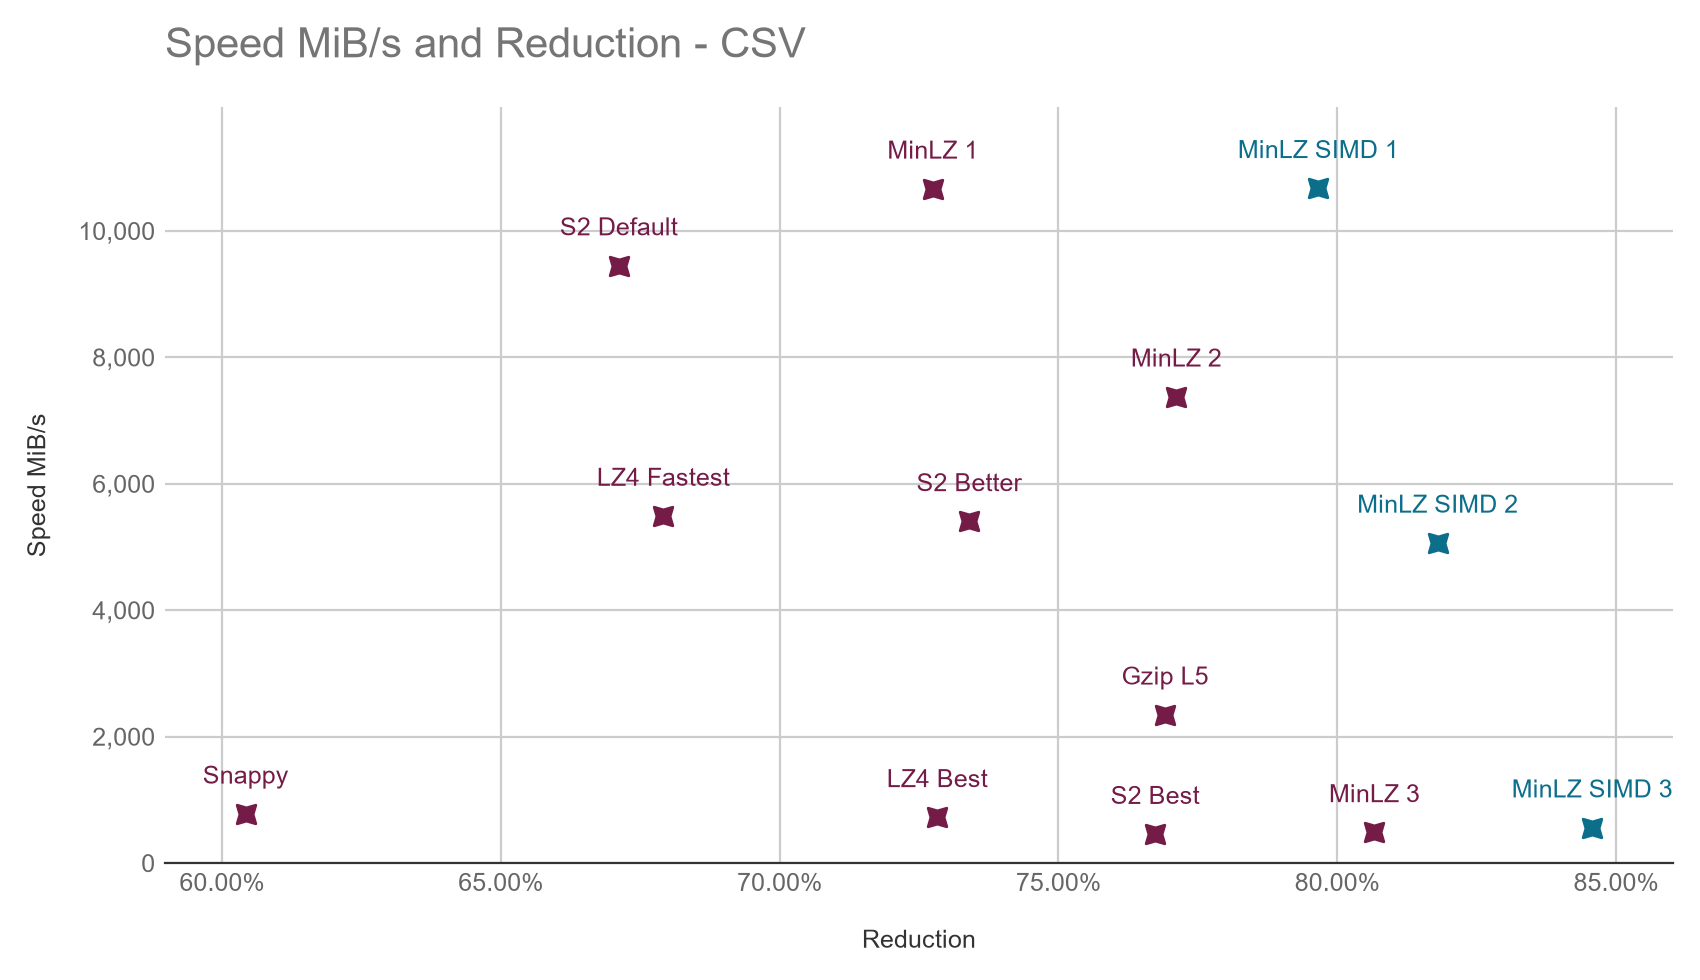
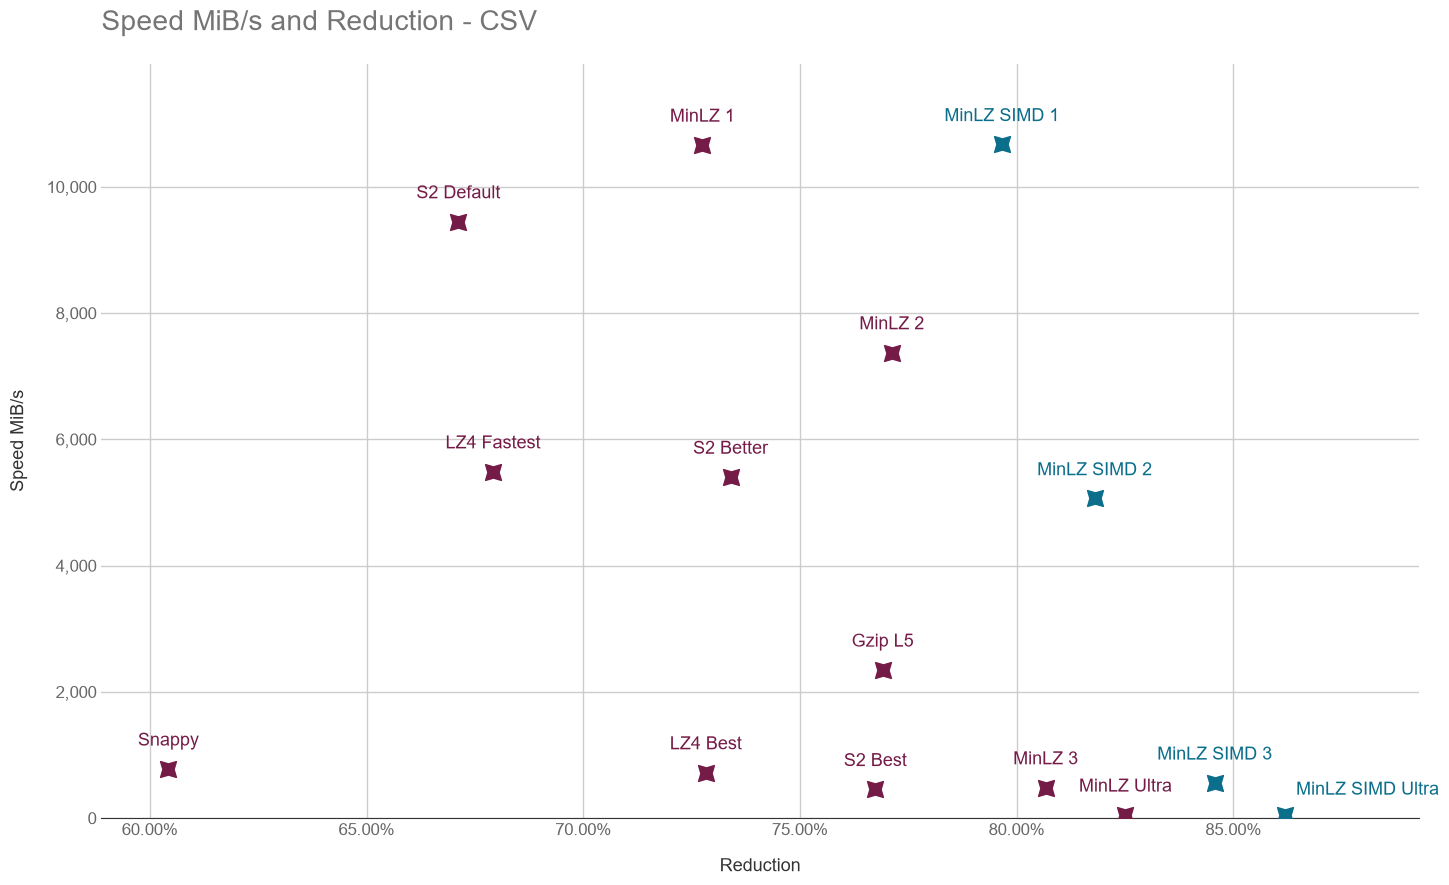
README: add the ultra levels to the stream benchmarks
MinLZ Ultra and MinLZ SIMD Ultra rows in the STREAMS tables, measured
with gocomp (16 threads, 4MB blocks, single-threaded decompression, 3
passes), and the charts redrawn from the tables. The rows were measured
with threads pinned to cores, unlike the older rows, which the setup
notes say.

diff --git a/README.md b/README.md
@@ -691,6 +691,8 @@ so experiment with fine-tuning for your needs.
 
 Streams are compressed with 16 threads on an AMD Ryzen 9 9950X 16-Core Processor.
 MinLZ rows are the classic levels of v1.2.1, MinLZ SIMD rows the SIMD levels of v1.3.0.
+The Ultra rows (`LevelUltra`, `LevelUltraSIMD`) were measured later, with each thread on its own core.
+Measured that way, MinLZ 3 compresses the JSON stream at about 1,300 MiB/s.
 
 Decompression is single-threaded. Gzip is pgzip, which inflates in one goroutine with read-ahead.
 With 16 threads MinLZ, S2 and LZ4 streams all decompress at 8,000-13,000 MiB/s, limited by memory bandwidth.
@@ -699,21 +701,23 @@ With 16 threads MinLZ, S2 and LZ4 streams all decompress at 8,000-13,000 MiB/s, 
 
 Input Size: 6,273,951,764 bytes
 
-| Compressor   | Speed MiB/s |          Size | Reduction | Dec MiB/s |
-|--------------|------------:|--------------:|----------:|----------:|
-| MinLZ 1      |      20,829 |   944,744,935 |    84.94% |     4,183 |
-| MinLZ 2      |      11,570 |   888,075,500 |    85.85% |     3,882 |
-| MinLZ 3      |         752 |   760,347,482 |    87.88% |     4,802 |
-| MinLZ SIMD 1 |      20,436 |   755,828,965 |    87.95% |     6,695 |
-| MinLZ SIMD 2 |      11,446 |   727,552,584 |    88.40% |     6,676 |
-| MinLZ SIMD 3 |       1,185 |   620,265,897 |    90.11% |     7,645 |
-| S2 Default   |      20,900 | 1,041,700,255 |    83.40% |     3,414 |
-| S2 Better    |      12,034 |   944,872,699 |    84.94% |     3,348 |
-| S2 Best      |         950 |   826,384,742 |    86.83% |     3,750 |
-| LZ4 Fastest  |       9,788 | 1,274,297,625 |    79.69% |     4,117 |
-| LZ4 Best     |       2,100 | 1,091,826,458 |    82.60% |     4,252 |
-| Snappy       |       1,488 | 1,525,176,492 |    75.69% |     2,557 |
-| Gzip L5      |       4,891 |   938,779,472 |    85.04% |       899 |
+| Compressor       | Speed MiB/s |          Size | Reduction | Dec MiB/s |
+|------------------|------------:|--------------:|----------:|----------:|
+| MinLZ 1          |      20,829 |   944,744,935 |    84.94% |     4,183 |
+| MinLZ 2          |      11,570 |   888,075,500 |    85.85% |     3,882 |
+| MinLZ 3          |         752 |   760,347,482 |    87.88% |     4,802 |
+| MinLZ Ultra      |         115 |   709,737,820 |    88.69% |     4,069 |
+| MinLZ SIMD 1     |      20,436 |   755,828,965 |    87.95% |     6,695 |
+| MinLZ SIMD 2     |      11,446 |   727,552,584 |    88.40% |     6,676 |
+| MinLZ SIMD 3     |       1,185 |   620,265,897 |    90.11% |     7,645 |
+| MinLZ SIMD Ultra |         110 |   567,719,843 |    90.95% |     6,659 |
+| S2 Default       |      20,900 | 1,041,700,255 |    83.40% |     3,414 |
+| S2 Better        |      12,034 |   944,872,699 |    84.94% |     3,348 |
+| S2 Best          |         950 |   826,384,742 |    86.83% |     3,750 |
+| LZ4 Fastest      |       9,788 | 1,274,297,625 |    79.69% |     4,117 |
+| LZ4 Best         |       2,100 | 1,091,826,458 |    82.60% |     4,252 |
+| Snappy           |       1,488 | 1,525,176,492 |    75.69% |     2,557 |
+| Gzip L5          |       4,891 |   938,779,472 |    85.04% |       899 |
 
 ![Compression vs Size](img/json-v1-comp.png)
 ![Decompression Speed](img/json-v1-decomp.png)
@@ -728,21 +732,23 @@ Source file: https://files.klauspost.com/compress/github-june-2days-2019.json.zs
 
 Input Size: 3,325,605,752 bytes
 
-| Compressor   | Speed MiB/s |          Size | Reduction | Dec MiB/s |
-|--------------|------------:|--------------:|----------:|----------:|
-| MinLZ 1      |      10,665 |   906,259,396 |    72.75% |     2,342 |
-| MinLZ 2      |       7,376 |   761,034,455 |    77.12% |     2,580 |
-| MinLZ 3      |         484 |   642,900,085 |    80.67% |     3,036 |
-| MinLZ SIMD 1 |      10,674 |   676,370,562 |    79.66% |     5,462 |
-| MinLZ SIMD 2 |       5,064 |   605,187,097 |    81.80% |     5,518 |
-| MinLZ SIMD 3 |         559 |   513,043,373 |    84.57% |     6,223 |
-| S2 Default   |       9,451 | 1,093,516,949 |    67.12% |     1,942 |
-| S2 Better    |       5,404 |   884,711,436 |    73.40% |     2,102 |
-| S2 Best      |         456 |   773,678,211 |    76.74% |     2,294 |
-| LZ4 Fastest  |       5,489 | 1,066,961,737 |    67.92% |     3,665 |
-| LZ4 Best     |         722 |   903,598,068 |    72.83% |     3,269 |
-| Snappy       |         777 | 1,316,042,016 |    60.43% |     1,588 |
-| Gzip L5      |       2,345 |   767,729,808 |    76.91% |       467 |
+| Compressor       | Speed MiB/s |          Size | Reduction | Dec MiB/s |
+|------------------|------------:|--------------:|----------:|----------:|
+| MinLZ 1          |      10,665 |   906,259,396 |    72.75% |     2,342 |
+| MinLZ 2          |       7,376 |   761,034,455 |    77.12% |     2,580 |
+| MinLZ 3          |         484 |   642,900,085 |    80.67% |     3,036 |
+| MinLZ Ultra      |          52 |   581,625,193 |    82.51% |     2,570 |
+| MinLZ SIMD 1     |      10,674 |   676,370,562 |    79.66% |     5,462 |
+| MinLZ SIMD 2     |       5,064 |   605,187,097 |    81.80% |     5,518 |
+| MinLZ SIMD 3     |         559 |   513,043,373 |    84.57% |     6,223 |
+| MinLZ SIMD Ultra |          47 |   459,227,018 |    86.19% |     5,476 |
+| S2 Default       |       9,451 | 1,093,516,949 |    67.12% |     1,942 |
+| S2 Better        |       5,404 |   884,711,436 |    73.40% |     2,102 |
+| S2 Best          |         456 |   773,678,211 |    76.74% |     2,294 |
+| LZ4 Fastest      |       5,489 | 1,066,961,737 |    67.92% |     3,665 |
+| LZ4 Best         |         722 |   903,598,068 |    72.83% |     3,269 |
+| Snappy           |         777 | 1,316,042,016 |    60.43% |     1,588 |
+| Gzip L5          |       2,345 |   767,729,808 |    76.91% |       467 |
 
 ![Compression vs Size](img/csv-v1-comp.png)
 
@@ -757,21 +763,23 @@ Source file: https://files.klauspost.com/compress/nyc-taxi-data-10M.csv.zst
 
 Input Size: 2,622,574,440 bytes
 
-| Compressor   | Speed MiB/s |        Size | Reduction | Dec MiB/s |
-|--------------|------------:|------------:|----------:|----------:|
-| MinLZ 1      |      27,696 | 186,266,387 |    92.90% |     5,862 |
-| MinLZ 2      |      19,558 | 172,551,192 |    93.42% |     5,970 |
-| MinLZ 3      |       1,739 | 141,128,842 |    94.62% |     6,729 |
-| MinLZ SIMD 1 |      29,967 | 143,743,002 |    94.52% |     8,623 |
-| MinLZ SIMD 2 |      13,126 | 134,202,495 |    94.88% |     8,718 |
-| MinLZ SIMD 3 |       2,785 | 106,937,805 |    95.92% |     9,817 |
-| S2 Default   |      23,251 | 230,521,260 |    91.21% |     4,645 |
-| S2 Better    |      14,023 | 217,884,566 |    91.69% |     4,778 |
-| S2 Best      |       1,631 | 185,357,903 |    92.93% |     5,067 |
-| LZ4 Fastest  |      11,427 | 216,323,995 |    91.75% |     5,445 |
-| LZ4 Best     |       3,169 | 169,447,971 |    93.54% |     5,471 |
-| Snappy       |       3,226 | 290,116,961 |    88.94% |     4,407 |
-| Gzip L5      |       7,547 | 142,190,883 |    94.58% |     2,160 |
+| Compressor       | Speed MiB/s |        Size | Reduction | Dec MiB/s |
+|------------------|------------:|------------:|----------:|----------:|
+| MinLZ 1          |      27,696 | 186,266,387 |    92.90% |     5,862 |
+| MinLZ 2          |      19,558 | 172,551,192 |    93.42% |     5,970 |
+| MinLZ 3          |       1,739 | 141,128,842 |    94.62% |     6,729 |
+| MinLZ Ultra      |          64 | 125,730,119 |    95.21% |     6,213 |
+| MinLZ SIMD 1     |      29,967 | 143,743,002 |    94.52% |     8,623 |
+| MinLZ SIMD 2     |      13,126 | 134,202,495 |    94.88% |     8,718 |
+| MinLZ SIMD 3     |       2,785 | 106,937,805 |    95.92% |     9,817 |
+| MinLZ SIMD Ultra |          77 |  91,737,425 |    96.50% |     9,354 |
+| S2 Default       |      23,251 | 230,521,260 |    91.21% |     4,645 |
+| S2 Better        |      14,023 | 217,884,566 |    91.69% |     4,778 |
+| S2 Best          |       1,631 | 185,357,903 |    92.93% |     5,067 |
+| LZ4 Fastest      |      11,427 | 216,323,995 |    91.75% |     5,445 |
+| LZ4 Best         |       3,169 | 169,447,971 |    93.54% |     5,471 |
+| Snappy           |       3,226 | 290,116,961 |    88.94% |     4,407 |
+| Gzip L5          |       7,547 | 142,190,883 |    94.58% |     2,160 |
 
 ![Compression vs Size](img/logs-v1-comp.png)
 
@@ -786,21 +794,23 @@ Source file: https://files.klauspost.com/compress/apache.log.zst
 
 Input Size: 1,862,623,243 bytes
 
-| Compressor   | Speed MiB/s |        Size | Reduction | Dec MiB/s |
-|--------------|------------:|------------:|----------:|----------:|
-| MinLZ 1      |      16,324 | 591,974,386 |    68.22% |     3,541 |
-| MinLZ 2      |       8,666 | 518,109,345 |    72.18% |     2,790 |
-| MinLZ 3      |         329 | 483,073,294 |    74.06% |     2,925 |
-| MinLZ SIMD 1 |      14,504 | 460,844,754 |    75.26% |     5,574 |
-| MinLZ SIMD 2 |       4,507 | 418,840,099 |    77.51% |     5,253 |
-| MinLZ SIMD 3 |         509 | 378,029,682 |    79.70% |     5,072 |
-| S2 Default   |      14,418 | 623,832,101 |    66.51% |     3,068 |
-| S2 Better    |       5,055 | 568,441,654 |    69.48% |     2,648 |
-| S2 Best      |         322 | 553,965,705 |    70.26% |     2,666 |
-| LZ4 Fastest  |       7,545 | 618,174,538 |    66.81% |     4,214 |
-| LZ4 Best     |         582 | 552,015,243 |    70.36% |     3,695 |
-| Snappy       |       1,422 | 589,837,541 |    68.33% |     2,928 |
-| Gzip L5      |       2,871 | 434,976,919 |    76.65% |       609 |
+| Compressor       | Speed MiB/s |        Size | Reduction | Dec MiB/s |
+|------------------|------------:|------------:|----------:|----------:|
+| MinLZ 1          |      16,324 | 591,974,386 |    68.22% |     3,541 |
+| MinLZ 2          |       8,666 | 518,109,345 |    72.18% |     2,790 |
+| MinLZ 3          |         329 | 483,073,294 |    74.06% |     2,925 |
+| MinLZ Ultra      |          86 | 443,465,680 |    76.19% |     2,877 |
+| MinLZ SIMD 1     |      14,504 | 460,844,754 |    75.26% |     5,574 |
+| MinLZ SIMD 2     |       4,507 | 418,840,099 |    77.51% |     5,253 |
+| MinLZ SIMD 3     |         509 | 378,029,682 |    79.70% |     5,072 |
+| MinLZ SIMD Ultra |          68 | 350,200,658 |    81.20% |     4,499 |
+| S2 Default       |      14,418 | 623,832,101 |    66.51% |     3,068 |
+| S2 Better        |       5,055 | 568,441,654 |    69.48% |     2,648 |
+| S2 Best          |         322 | 553,965,705 |    70.26% |     2,666 |
+| LZ4 Fastest      |       7,545 | 618,174,538 |    66.81% |     4,214 |
+| LZ4 Best         |         582 | 552,015,243 |    70.36% |     3,695 |
+| Snappy           |       1,422 | 589,837,541 |    68.33% |     2,928 |
+| Gzip L5          |       2,871 | 434,976,919 |    76.65% |       609 |
 
 ![Compression vs Size](img/msgp-v1-comp.png)
 
@@ -815,21 +825,23 @@ Source file: https://files.klauspost.com/compress/github-ranks-backup.bin.zst
 
 Input Size: 10,065,157,632 bytes
 
-| Compressor   | Speed MiB/s |          Size | Reduction | Dec MiB/s |
-|--------------|------------:|--------------:|----------:|----------:|
-| MinLZ 1      |      10,363 | 5,665,919,270 |    43.71% |     2,471 |
-| MinLZ 2      |       6,756 | 5,211,238,237 |    48.22% |     2,351 |
-| MinLZ 3      |         343 | 4,891,048,094 |    51.41% |     2,601 |
-| MinLZ SIMD 1 |       7,716 | 4,997,154,445 |    50.35% |     4,731 |
-| MinLZ SIMD 2 |       4,469 | 4,668,561,048 |    53.62% |     4,927 |
-| MinLZ SIMD 3 |         395 | 4,426,577,291 |    56.02% |     4,913 |
-| S2 Default   |       9,029 | 5,915,541,066 |    41.23% |     2,259 |
-| S2 Better    |       5,380 | 5,455,008,813 |    45.80% |     2,165 |
-| S2 Best      |         317 | 5,192,490,222 |    48.41% |     2,231 |
-| LZ4 Fastest  |       5,960 | 5,850,848,099 |    41.87% |     3,555 |
-| LZ4 Best     |         281 | 5,348,131,209 |    46.86% |     3,428 |
-| Snappy       |       1,027 | 6,056,946,612 |    39.82% |     2,084 |
-| Gzip L5      |       2,261 | 4,917,967,527 |    51.14% |       520 |
+| Compressor       | Speed MiB/s |          Size | Reduction | Dec MiB/s |
+|------------------|------------:|--------------:|----------:|----------:|
+| MinLZ 1          |      10,363 | 5,665,919,270 |    43.71% |     2,471 |
+| MinLZ 2          |       6,756 | 5,211,238,237 |    48.22% |     2,351 |
+| MinLZ 3          |         343 | 4,891,048,094 |    51.41% |     2,601 |
+| MinLZ Ultra      |          60 | 4,656,701,972 |    53.73% |     2,307 |
+| MinLZ SIMD 1     |       7,716 | 4,997,154,445 |    50.35% |     4,731 |
+| MinLZ SIMD 2     |       4,469 | 4,668,561,048 |    53.62% |     4,927 |
+| MinLZ SIMD 3     |         395 | 4,426,577,291 |    56.02% |     4,913 |
+| MinLZ SIMD Ultra |          50 | 4,265,779,073 |    57.62% |     4,027 |
+| S2 Default       |       9,029 | 5,915,541,066 |    41.23% |     2,259 |
+| S2 Better        |       5,380 | 5,455,008,813 |    45.80% |     2,165 |
+| S2 Best          |         317 | 5,192,490,222 |    48.41% |     2,231 |
+| LZ4 Fastest      |       5,960 | 5,850,848,099 |    41.87% |     3,555 |
+| LZ4 Best         |         281 | 5,348,131,209 |    46.86% |     3,428 |
+| Snappy           |       1,027 | 6,056,946,612 |    39.82% |     2,084 |
+| Gzip L5          |       2,261 | 4,917,967,527 |    51.14% |       520 |
 
 ![Compression vs Size](img/10gb-v1-comp.png)
 
